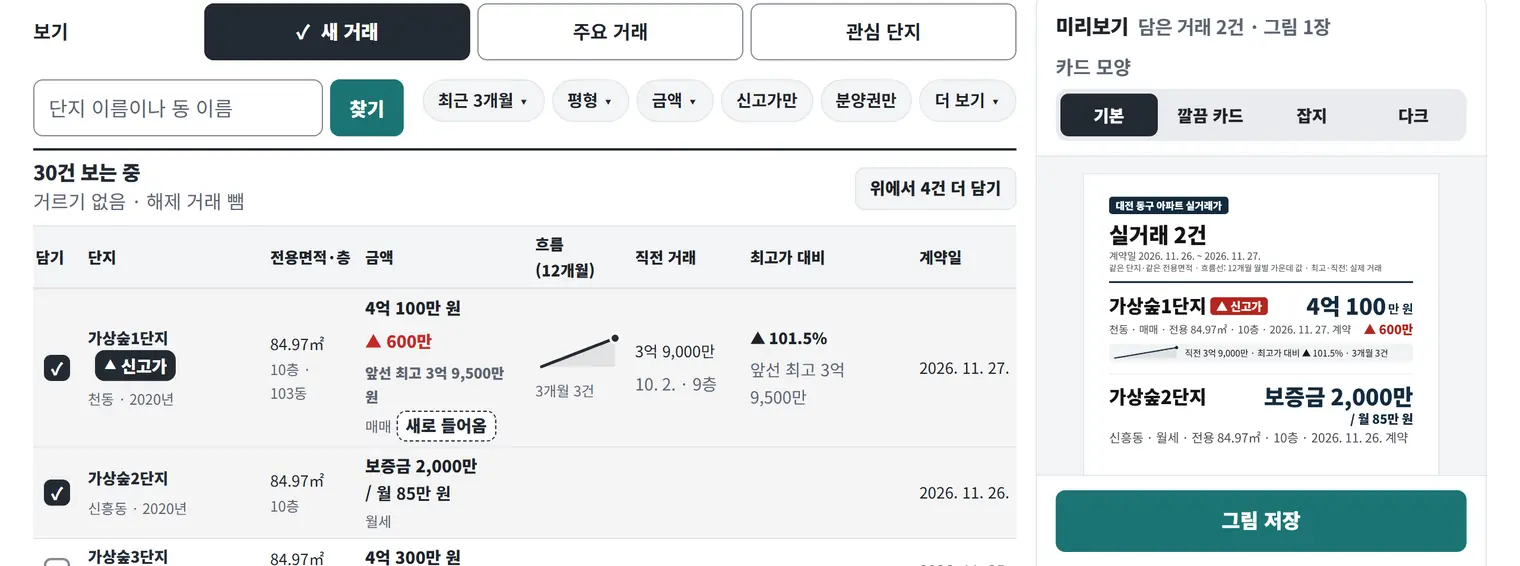
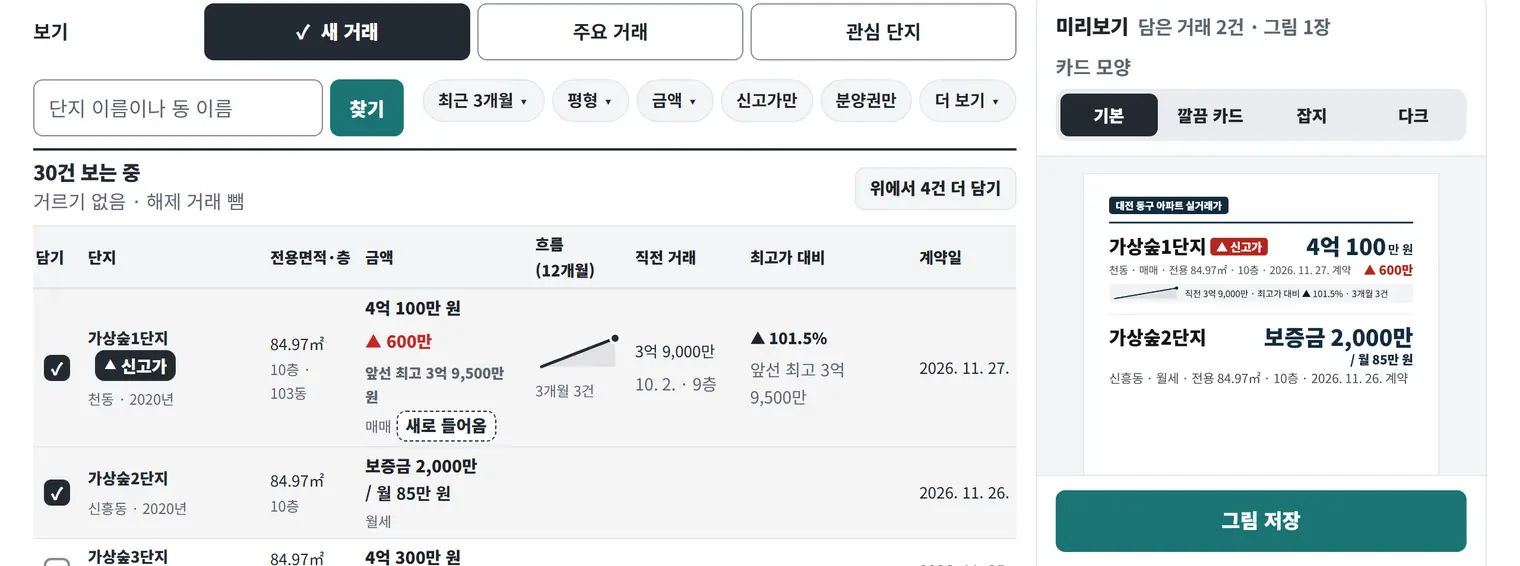
실거래 홍보물 카드 위쪽의 건수·기간·설명 줄을 빼고 잡지 띠를 연한 노랑으로 바꿈
실거래 홍보물 카드 위쪽이 "대전 동구 아파트 실거래가" 칩만 남아 깔끔해지고, 잡지 모양 띠가 연한 노랑이 됩니다.
- 문제: 카드 위에 "실거래 6건 · 1/2장", 계약일 기간, 흐름선 설명 줄이 있어 복잡했고 잡지 모양 산호색 띠가 진했습니다.
- 고친 것: 여러 건 카드에서 이 세 줄을 그리지 않고, 1건 카드는 단지 이름이 제목에만 있어 제목은 남겼습니다. 잡지 띠는 #F06951에서 #FFEFB8로 바꿨습니다. 올릴 글 4가지는 그대로입니다.
- 함께: 사용 안내의 홍보물 그림 3장을 새 모양으로 다시 찍고, 디자인 문서와 업무 도구 설계서의 카드 설명을 고쳤습니다.
- 확인: 단위 시험 1,030개 통과(Windows 줄 끝 사본), 타입 검사 오류 없음.

Changed region(s): [[0.7112, 0.3905, 0.9276, 0.7809]]

diff --git a/src/lib/work-realprice-card.ts b/src/lib/work-realprice-card.ts
@@ -41,7 +41,7 @@ const MAXW = W - PAD * 2;
 const C = CARD_COLORS;
 const HIGH_LABEL = "▲ 신고가";
 const PRESALE_LABEL = "분양권";
-const CORAL = "#F06951"; // 로고의 산호색
+const BAND_YELLOW = "#FFEFB8"; // 잡지 머리 띠: 연한 노랑(2026-11-24 사용자 요청 "바탕색은 좀더 연하거나 노란색 계열", 그 전 산호 #F06951)
 
 type Theme = {
   bg: string; ink: string; soft: string; edge: string; strip: string; price: string;
@@ -58,7 +58,7 @@ const BASE: Theme = {
 export const PROMO_THEMES: Record<PromoStyle, Theme> = {
   basic: BASE,
   clean: { ...BASE, bg: "#EEF1F4", edge: "#E3E7EB", strip: "#F3F5F7", chip: null, chipInk: C.navy, rule: null, panel: "#FFFFFF" },
-  magazine: { ...BASE, chip: C.ink, rule: null, band: CORAL },
+  magazine: { ...BASE, chip: C.ink, rule: null, band: BAND_YELLOW },
   dark: {
     ...BASE, bg: C.navy, ink: "#FFFFFF", soft: "#B7C3CF", edge: "rgba(255, 255, 255, 0.16)", strip: "rgba(255, 255, 255, 0.08)", price: "#FFB49F",
     high: "#FF8A73", highInk: "#1A0A06", up: "#FF9A85", pre: "rgba(255, 255, 255, 0.16)", preInk: "#E8EEF4",
@@ -171,7 +171,8 @@ function measure<T>(pen: Pen, fn: () => T): T {
   try { return fn(); } finally { pen.draw = was; }
 }
 
-// 머리: 칩 "대전 동구 아파트 실거래가"(받은 시각은 카드에 넣지 않고 글에만, 2026-11-24 사용자 답 "이것도 뺌") → 제목 → 계약일 범위 → 흐름 기준 줄. 잡지는 이 머리 뒤를 산호색 띠로 칠한다.
+// 머리: 칩 "대전 동구 아파트 실거래가"(받은 시각은 카드에 넣지 않고 글에만, 2026-11-24 사용자 답 "이것도 뺌") → 1건만 제목(단지 이름이 제목에만 있음).
+// 여러 건 제목("실거래 n건 · n/m장")·계약일 범위·흐름 기준 줄은 그리지 않는다(2026-11-24 사용자 요청 "네모박스에 있는건 안나오게"). 잡지는 이 머리 뒤를 연한 노랑 띠로 칠한다.
 function head(pen: Pen, card: PromoCard, t: Theme, s: number) {
   const draw = () => {
     let y = TOP;
@@ -186,9 +187,8 @@ function head(pen: Pen, card: PromoCard, t: Theme, s: number) {
       line(pen, card.areaLabel, PAD, y + chipH / 2 + 1, chipPx, { weight: 800, color: t.chipInk });
     }
     y += chipH + Math.round(26 * s);
-    y = text(pen, card.title, PAD, y, { px: Math.round(66 * s), weight: 800, color: t.ink, lh: 1.14 });
-    y = text(pen, card.range, PAD, y + 6 * s, { px: Math.round(30 * s), color: t.band ? C.ink : t.soft });
-    if (card.basis) y = text(pen, card.basis, PAD, y, { px: Math.round(25 * s), color: t.band ? C.ink : t.soft });
+    if (card.items.length === 1) y = text(pen, card.title, PAD, y, { px: Math.round(66 * s), weight: 800, color: t.ink, lh: 1.14 });
+    else y -= Math.round(26 * s);
     return y;
   };
   if (!t.band) return draw();

diff --git a/DESIGN.md b/DESIGN.md
@@ -347,7 +347,7 @@ components:
 ### 실거래가 홍보물(단계 P P1-e 운영자 승인 2026-11-20 10:43:09, 2026-11-24 새 모양: 사용자 답 2026-11-24 10:24:08 "화면 배치까지"·출처 상자 "완전히 뺌"·"상호를 크게"·흐름 줄 "지금 그대로", 10:46:13 처음 모양 "기본 (추천)"·"4곳까지 1장 (추천)"(비율은 지금처럼 4:5)·딱지 "▲ 신고가 (추천)")
 
 - 목록 담기(2026-11-24): 글자 없는 체크칸. 누르는 곳은 44px 칸 전체(진짜 체크 칸을 투명하게 덮음), 보이는 것은 26px 네모(1221px 이상 + 마우스는 36px 칸·22px 네모). 담으면 남색 바탕 흰 ✓, 해제 거래·다 찬 뒤 나머지는 옅은 회색 네모로 잠근다. 담은 줄은 옅은 남색 바탕. 1221px 이상 표는 맨 앞 열 "담기", 1220px 이하 카드는 오른쪽 아래(넷째 줄 '흐름·직전 거래' 끝). 시안처럼 카드 왼쪽에 두면 줄마다 48px이 줄어 390px에서 첫째 줄(단지 이름·딱지·전용면적)이 꺾여 첫 카드가 아래 탭에 가리므로 오른쪽 아래에 둔다. 딱지는 단지 이름 옆("▲ 신고가" 남색, "분양권" 옅은 남색 바탕 남색 글자), 신고가 거래는 금액 옆(표는 금액 아래)에 빨간 굵은 "▲ 300만"(앞선 최고보다 오른 금액, 화면 읽기는 "앞선 최고보다"를 덧붙임). 하나라도 담으면 목록 아래에 남색 윗선 막대("담은 거래 n건" · 검정 주 단추 "홍보물 만들기" · "비우기")가 붙는다. 979px 이하는 막대를 한 줄로 아래 탭 위에 둔다.
-- 카드 그림(1080×1350, 4:5): 모양 4가지 — 기본(흰 종이, 남색 칩·줄, 처음 모양), 깔끔 카드(#EEF1F4 바탕에 흰 둥근 판), 잡지(머리 띠 산호 #F06951, 칩 검정), 다크(남색 바탕, 금액 #FFB49F). 위 칸은 "대전 동구 아파트 실거래가" 칩(받은 시각은 그림에 넣지 않고 글에만), 제목(1건 "가상숲1단지 매매 신고가", 여러 건 "실거래 4건"·"실거래 5건 · 1/2장")·계약일 범위·흐름선 기준 한 줄. 1건은 딱지·설명 → 큰 금액(100px 숫자 + 작은 단위) + 오른쪽 "▲ 오름 폭" → "○ 직전 거래" → 큰 흐름선(앞선 최고 점선, 남는 자리만큼 최대 240px 더 키움) → 칸 3개(앞선 최고·최고가 대비·최근 3개월). 여러 건은 줄마다 단지 이름 + 딱지, 오른쪽 금액(숫자 + 작은 단위) → 지역·종류·전용면적·층·계약일 + "▲ 오름 폭" → 회색 흐름 줄(흐름선 150px + 직전·대비·3개월 글). 신고가는 "▲ 신고가" 빨강(#B3261E, 다크는 #FF8A73), 분양권은 옅은 남색 딱지. 긴 단지 이름은 85%까지 줄인 뒤 끝을 "…"로 줄인다.
+- 카드 그림(1080×1350, 4:5): 모양 4가지 — 기본(흰 종이, 남색 칩·줄, 처음 모양), 깔끔 카드(#EEF1F4 바탕에 흰 둥근 판), 잡지(머리 띠 연한 노랑 #FFEFB8, 칩 검정. 2026-11-24 전에는 산호 #F06951), 다크(남색 바탕, 금액 #FFB49F). 위 칸은 "대전 동구 아파트 실거래가" 칩(받은 시각은 그림에 넣지 않고 글에만)과, 1건일 때만 제목("가상숲1단지 매매 신고가", 단지 이름이 제목에만 있음). 여러 건 제목("실거래 n건 · n/m장")·계약일 범위·흐름선 기준 줄은 그리지 않는다(2026-11-24 사용자 요청). 1건은 딱지·설명 → 큰 금액(100px 숫자 + 작은 단위) + 오른쪽 "▲ 오름 폭" → "○ 직전 거래" → 큰 흐름선(앞선 최고 점선, 남는 자리만큼 최대 240px 더 키움) → 칸 3개(앞선 최고·최고가 대비·최근 3개월). 여러 건은 줄마다 단지 이름 + 딱지, 오른쪽 금액(숫자 + 작은 단위) → 지역·종류·전용면적·층·계약일 + "▲ 오름 폭" → 회색 흐름 줄(흐름선 150px + 직전·대비·3개월 글). 신고가는 "▲ 신고가" 빨강(#B3261E, 다크는 #FF8A73), 분양권은 옅은 남색 딱지. 긴 단지 이름은 85%까지 줄인 뒤 끝을 "…"로 줄인다.
 - 카드 아래 칸(줄이지 않음): 회색 선 → 로고에서 자른 집 모양(다크는 흰 둥근 판 위) + 상호 42px 굵게, "대표 · 등록번호" 25px, 오른쪽 연락처 40px 굵게, 소재지 24px. 출처 상자·신고 기한 안내·신고가 판정 기준은 그림에서 빼고 글 4가지에만 둔다. 받은 시각을 모르거나 명시사항 5항목이 비면 만들지 않는다(그대로). 동 번호는 넣지 않는다.
 - 4건까지 한 장, 5건은 3 + 2, 6건은 3 + 3(담기 최대 6건 그대로). 여러 건은 아래 칸 위에 자리가 남으면 거래 줄을 1.45배까지 키우고(회색 흐름 줄 글자는 키우지 않고, 키운 배율이 1배보다 글을 더 자르면 쓰지 않음), 겹치면 본문만 5%씩 80%까지 줄인다.
 - 홍보물 화면(2026-11-24 새 모양): 위 2px 남색 선의 담은 거래 요약(단지 · 종류 / 금액, 밑줄 "← 거래 다시 고르기") → "카드 모양" 띠(회색 바탕 4칸 기본·깔끔 카드·잡지·다크, 44px, 고른 칸 남색 바탕) → 카드 그림(펼쳐 보임) → 크기 설명 → "그림 저장"(두 장이면 "1장 저장"·"2장 저장", 52px 주 단추, 누르면 남색 테두리 흰 바탕 "✓ … 저장함") → "올릴 곳에 맞춘 글 복사" 단추 4개(인스타그램·스레드·블로그·카카오톡, 979px 이하 2×2·760px 이상 4칸, 56px, 이름 굵게 + 아래 작은 "글 복사", 누른 단추만 남색 바탕 "✓ 복사됨") → 그 아래 한 줄(글자 수·해시태그 수 + 그 앱에서 할 일) → 접힌 "글 미리 보기"(마지막으로 누른 곳 글) → 맨 아래 "종이로 뽑기(A4)". 모양을 바꾸면 서버를 부르지 않고 다시 그리며 저장·복사 표시는 지운다. 고른 모양은 화면 메모리에만 두고 브라우저 저장소에 넣지 않는다(화면을 떠나면 기본). 자동 복사가 막히면 글 미리 보기를 펼쳐 글을 골라 둔다. 목록 오른쪽 미리보기 칸(1221px 이상)도 같은 모양 띠(마우스 PC 36px)·올릴 곳 단추 4개(늘 2×2, 마우스 PC 48px)를 쓴다. 인쇄는 카드 그림만 A4 세로 한 장(1장 150mm, 2장 88mm씩 나란히).
@@ -375,7 +375,7 @@ components:
 - 관리자 목록 1220px 이하 카드: 셋째 줄 아래 밑줄 남색 "흐름·직전 거래 · 대비 n%"(44px)를 누르면 흐름선(폭 가득) · "○ 직전 거래 …" · 회색 칸 3개(앞선 최고·최고가 대비·최근 3개월) · 기준 글을 펼친다. 처음에는 접혀 있고, 접힌 동안 "담기"는 그 줄 오른쪽에 온다.
 - 결과를 못 보일 때는 빈 칸·0을 두지 않는다: 표 칸은 "흐름: 오늘 조회 한도"·"흐름: 과거 자료 채우는 중"·"흐름: 불러오지 못함"(회색 작은 글자). 카드는 누를 것이 없는 "흐름·직전 거래" 줄을 두지 않고(390×844 첫 화면에 첫 카드가 들어오게), 까닭은 목록 위 한 줄로 알린다(한도·불러오지 못함은 목록 위 안내, 채우는 중은 신고가 준비 안내에 "흐름·직전 거래도 그때 함께 보입니다"를 붙임). 카드 줄은 위 3px·아래 8px를 셋째 줄·카드 아래 여백과 겹쳐 44px를 지킨다. 매매가 아닌 거래는 칸을 비우고 화면 읽기 프로그램에만 "흐름은 매매만 계산"을 둔다.
 - 홍보물 1건: 거래 종류(신고가면 "▲ 신고가" 표) → 단지 이름(78px) → 법정동 · n년 준공 · n세대(세대수는 운영자가 홈페이지 단지와 연결한 단지만, 없으면 그 조각을 뺌) → 금액(104px) → 전용면적·층·계약일 한 줄 → "○ 직전 거래 …"(없으면 줄을 뺌) → 흐름선(폭 가득, 앞선 최고 금액 높이에 회색 점선과 "앞선 최고") → 회색 칸(앞선 최고·최고가 대비·최근 3개월 가운데 값이 있는 것만) → 기준 줄.
-- 홍보물 여러 건: 제목·계약일 범위 아래 기준 줄, 줄마다 남색 번호 칸 + 단지 이름, 오른쪽 금액(신고가는 그 왼쪽에 "▲ 신고가" 표), 둘째 줄 "법정동 · 종류 · 전용 · 층 · 계약일"과 오른쪽 작은 흐름선, 아래 `paper-2` 줄 "직전 … · 최고가 대비 … · 3개월 n건"(앞선 최고 금액은 칸이 모자라 %만).
+- 홍보물 여러 건: 칩 아래 바로(제목·계약일 범위·기준 줄 없음, 2026-11-24) 줄마다 남색 번호 칸 + 단지 이름, 오른쪽 금액(신고가는 그 왼쪽에 "▲ 신고가" 표), 둘째 줄 "법정동 · 종류 · 전용 · 층 · 계약일"과 오른쪽 작은 흐름선, 아래 `paper-2` 줄 "직전 … · 최고가 대비 … · 3개월 n건"(앞선 최고 금액은 칸이 모자라 %만).
 - 기준 줄은 그린 것만 적는다: "같은 단지·같은 전용면적 · 흐름선: 12개월 월별 가운데 값 · 최고·직전: 실제 거래". 흐름을 받지 못하거나 계산하지 못한 거래는 지금 모양 그대로 그린다(그 장에 그린 흐름이 없으면 기준 줄도 없음). 글 4가지는 바꾸지 않는다.
 
 ### 업무 도구 홍보 종이(보드 45번 C, 운영자 결정 2026-11-20 18:09:06 "① 가격 빼고 달·면적 흐리게"·"A 흰 종이")

diff --git a/docs/work-tools/리더스시티 행복한부동산 중개업무 도구 설계서.md b/docs/work-tools/리더스시티 행복한부동산 중개업무 도구 설계서.md
@@ -3193,7 +3193,7 @@ D1 구조는 바꾸지 않는다(구조 번호 4 그대로, 마이그레이션·
    - 목록(`/admin/work/realprice/`): 쪽을 그린 뒤 보이는 매매(해제·직거래 뺌) 가운데 아직 받지 않은 ID를 30개씩 묻는다. 휴대폰도 펼치기 전에 묻는다(접힌 줄에 "대비 ▲ n%"를 보이기 때문). 받은 결과는 화면 메모리(Map)에만 두고 같은 ID는 다시 묻지 않는다(브라우저 저장소·URL 없음).
    - 1221px 이상 표: 칸 3개 "흐름(12개월)"(흐름선 72px + 아래 "3개월 n건") · "직전 거래"(금액, '원' 뺌 + 아래 날짜·층) · "최고가 대비"(굵은 % + 아래 "앞선 최고 …만"). 자리를 내려고 거래 종류·표시는 금액 아래, 법정동·준공연도는 단지 이름 아래 작은 줄로 옮긴다. 머리 3개는 칸이 모자랄 때만 두 줄.
    - 1220px 이하 카드: 셋째 줄 아래 접힌 "흐름·직전 거래 · 대비 ▲ n%"(누르는 곳 44px, 담기 체크칸과 같은 높이)를 누르면 흐름선·직전 거래·칸 3개(앞선 최고·최고가 대비·최근 3개월)·기준 글을 펼친다. 줄의 위 3px·아래 8px는 셋째 줄·카드 아래 여백과 겹쳐 390×844 첫 화면의 첫 카드 끝을 794.2px에서 783.2px로 줄였다(아래 탭 787px).
-   - 홍보물(`promo/?ids=`): `trades?ids=` 다음에 담은 매매 ID로 한 번 묻고, 카드 1건·여러 건에 흐름선·직전 거래·최고가 대비를 그린다. 기준 줄은 그 장에 실제로 그린 항목만 적는다. 흐름을 받지 못한 거래는 지금 모양 그대로 그린다. 글 4가지는 바꾸지 않는다.
+   - 홍보물(`promo/?ids=`): `trades?ids=` 다음에 담은 매매 ID로 한 번 묻고, 카드 1건·여러 건에 흐름선·직전 거래·최고가 대비를 그린다. 기준 줄은 그 장에 실제로 그린 항목만 적는다(2026-11-24부터 카드 그림에는 그리지 않음 — 여러 건 제목·계약일 범위와 함께 뺌, 사용자 요청 "네모박스에 있는건 안나오게". 잡지 모양 머리 띠는 산호에서 연한 노랑 #FFEFB8로). 흐름을 받지 못한 거래는 지금 모양 그대로 그린다. 글 4가지는 바꾸지 않는다.
    - 자료가 모자랄 때: 빈 달은 점 없이 건너뛰고 있는 달끼리 잇는다(0으로 떨어뜨리지 않음). 거래 있는 달이 1개면 선을 그리지 않고 표는 "한 달만 거래", 펼침은 "흐름선은 거래가 있는 달이 두 달 이상일 때 그립니다"를 쓴다. 직전 거래가 없으면 표는 "직전 거래 없음", 펼침은 "직전 거래 없음(2006년 1월 이후)", 홍보물은 그 줄을 뺀다. 앞선 최고가 없으면 '앞선 최고'·'최고가 대비'에 "첫 거래"를 쓴다(빈칸·0 금지).
    - 결과를 못 받을 때: 표 칸은 회색 작은 글자 "흐름: 오늘 조회 한도"·"흐름: 과거 자료 채우는 중"·"흐름: 불러오지 못함"과 화면 읽기용 글. 카드는 '흐름·직전 거래' 줄을 두지 않고 까닭을 목록 위 한 줄로 알린다: 한도 → "오늘 조회가 많아 흐름·직전 거래 표시를 잠시 껐습니다…", 불러오지 못함 → "흐름·직전 거래를 불러오지 못했습니다. 목록은 그대로 볼 수 있습니다. 잠시 뒤 화면을 새로 고치면 다시 불러옵니다.", 판정 준비 전 → 기존 신고가 준비 안내 끝에 "흐름·직전 거래도 그때 함께 보입니다."(979px 이하는 '자세히' 안). 끝 상한 429도 한도 글과 같다.
    - 디자인 기준은 `DESIGN.md` '실거래가 거래 흐름', 도움말은 `src/lib/admin-help.mjs`의 실거래가 상자·표 4줄·'신고가 표시가 안 보일 때'·홍보물 상자.
